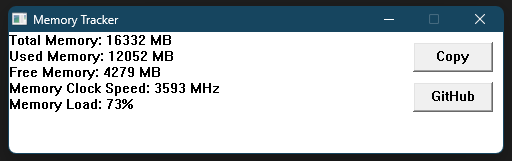
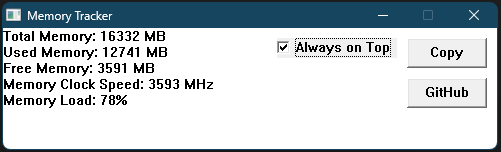
add Always on Top button

diff --git a/main.cpp b/main.cpp
@@ -15,13 +15,13 @@ void OnPaint(HWND hwnd);
 void OnTimer(HWND hwnd);
 void OnCopy(HWND hwnd);
 void OnGitHub(HWND hwnd);
+void OnAlwaysOnTop(HWND hwnd);
 
-// Идентификатор таймера
+// Идентификаторы элементов управления
 constexpr UINT_PTR TIMER_ID = 1;
-// Идентификатор кнопки "Скопировать"
 constexpr UINT_PTR BUTTON_COPY_ID = 2;
-// Идентификатор кнопки "GitHub"
 constexpr UINT_PTR BUTTON_GITHUB_ID = 3;
+constexpr UINT_PTR CHECKBOX_ALWAYS_ON_TOP_ID = 4;
 
 // Глобальные переменные для хранения информации об использовании памяти
 DWORDLONG g_TotalMemory = 0;
@@ -29,8 +29,13 @@ DWORDLONG g_UsedMemory = 0;
 DWORDLONG g_FreeMemory = 0;
 DWORD g_MemoryClockSpeed = 0;
 
+// Переменная для хранения состояния "Always on Top"
+bool g_IsAlwaysOnTop = false;
+
 // Хранит скопированную информацию о памяти
 std::vector<std::string> g_CopiedMemoryInfo;
+
+#pragma comment(lib, "psapi.lib")
 
 int WINAPI WinMain(HINSTANCE hInstance, HINSTANCE hPrevInstance, LPSTR lpCmdLine, int nCmdShow) {
     // Регистрация класса окна
@@ -47,7 +52,7 @@ int WINAPI WinMain(HINSTANCE hInstance, HINSTANCE hPrevInstance, LPSTR lpCmdLine
 
     // Создание окна
     HWND hwnd = CreateWindowEx(0, className, "Memory Tracker", WS_OVERLAPPEDWINDOW ^ WS_THICKFRAME ^ WS_MAXIMIZEBOX,
-                           (screenWidth - 500) / 2, screenHeight - 650, 500, 150, NULL, NULL, hInstance, NULL);
+                               (screenWidth - 500) / 2, screenHeight - 650, 500, 150, NULL, NULL, hInstance, NULL);
 
     // Получение размеров окна
     RECT windowRect;
@@ -62,6 +67,10 @@ int WINAPI WinMain(HINSTANCE hInstance, HINSTANCE hPrevInstance, LPSTR lpCmdLine
     // Создание кнопки "GitHub"
     HWND buttonGitHub = CreateWindow("BUTTON", "GitHub", WS_TABSTOP | WS_VISIBLE | WS_CHILD,
                                      windowWidth - 90, 50, 80, 30, hwnd, (HMENU)BUTTON_GITHUB_ID, hInstance, NULL);
+
+    // Создание флажка "Always on Top"
+    HWND checkboxAlwaysOnTop = CreateWindow("BUTTON", "Always on Top", WS_TABSTOP | WS_VISIBLE | WS_CHILD | BS_AUTOCHECKBOX,
+                                             windowWidth - 220, 10, 120, 20, hwnd, (HMENU)CHECKBOX_ALWAYS_ON_TOP_ID, hInstance, NULL);
 
     // Отображение окна
     ShowWindow(hwnd, nCmdShow);
@@ -96,6 +105,9 @@ LRESULT CALLBACK WindowProc(HWND hwnd, UINT uMsg, WPARAM wParam, LPARAM lParam) 
                 return 0;
             } else if (LOWORD(wParam) == BUTTON_GITHUB_ID) {
                 OnGitHub(hwnd);
+                return 0;
+            } else if (LOWORD(wParam) == CHECKBOX_ALWAYS_ON_TOP_ID) {
+                OnAlwaysOnTop(hwnd);
                 return 0;
             }
             break;
@@ -193,4 +205,12 @@ void OnCopy(HWND hwnd) {
 
 void OnGitHub(HWND hwnd) {
     ShellExecute(NULL, "open", "https://github.com/ElementoBorzi/Memory_Tracker", NULL, NULL, SW_SHOWNORMAL);
+}
+
+void OnAlwaysOnTop(HWND hwnd) {
+    static bool alwaysOnTop = false;
+    alwaysOnTop = !alwaysOnTop;
+
+    HWND hWndInsertAfter = alwaysOnTop ? HWND_TOPMOST : HWND_NOTOPMOST;
+    SetWindowPos(hwnd, hWndInsertAfter, 0, 0, 0, 0, SWP_NOMOVE | SWP_NOSIZE | SWP_NOACTIVATE);
 }
